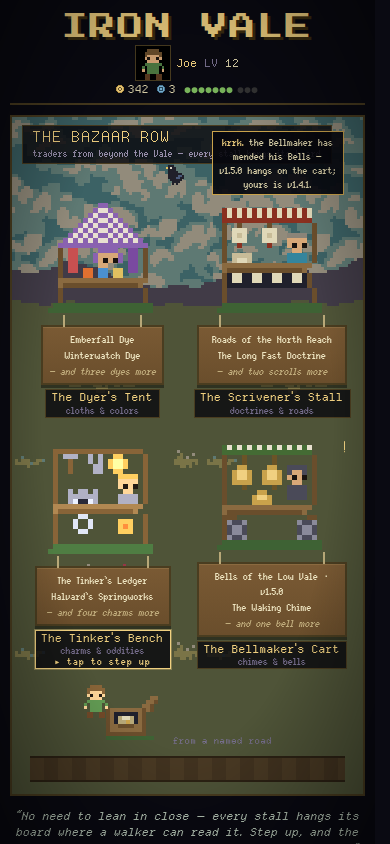
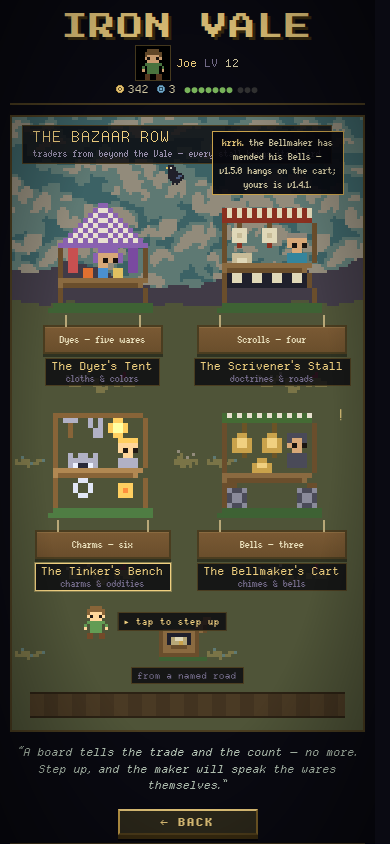
docs: hearth tree UX in plan; tidy bazaar row mockups
Claude-Session: https://claude.ai/code/session_01NKDH6uKaWuYzQcTqyKswXY

diff --git a/docs/plugin-bazaar-plan.md b/docs/plugin-bazaar-plan.md
@@ -32,16 +32,20 @@ attracts all four, and this one must not.
 
 ## 1. The vision, walked once end to end
 
-A player opens the town and finds a new corner of it: the Bazaar, a market
-screen in the same pixel register as everything else. Stalls line the square,
-one per kind of ware — the Dyer's Tent hung with cloth swatches (themes), the
-Scrivener's Stall stacked with bound doctrines (program packs), the Tinker's
-Bench of oddities (behavior plugins), the Bellmaker's Cart of chimes and bells
-(sound kits). Browsing costs nothing and executes nothing: every stall
-renders from manifest metadata alone. A ware's page shows what it is, who made it, what it
-asks of the player in plain language, and a single action. When a new version
-of an installed ware appears in the index, a raven brings word, the same way
-ravens already carry sync news.
+A player opens the town and finds a new corner of it: the Bazaar row, a
+walkable market lane in the same pixel register as everything else. Stalls
+line the row, one per kind of ware — the Dyer's Tent hung with cloth swatches
+(themes), the Scrivener's Stall stacked with bound doctrines (program packs),
+the Tinker's Bench of oddities (behavior plugins), the Bellmaker's Cart of
+chimes and bells (sound kits). Browsing costs nothing and executes nothing:
+every stall renders from manifest metadata alone, and its signboard carries no
+more than the trade and a count of wares. Step up to a stall and the merchant
+speaks — what a ware is, who made it, what it asks of the player, all in
+plain language, answered with response lines like any other conversation in
+the Vale. A ware taken home travels packed, into the ornament box in the
+player's dwelling; hung upon the hearth tree there, it wakes and works. When
+a new version of an installed ware appears in the index, a raven brings word,
+the same way ravens already carry sync news.
 
 Behind that screen there is almost nothing: a JSON index file in a public
 GitHub repository, one entry per ware pointing at an author's repo and its
@@ -179,9 +183,9 @@ never-400 rule is already doctrine). The one addition this plan makes to the
 `"network"`, `"reads:wellness"`, `"routes"` — borrowed from WebExtensions'
 install-time disclosure. The research's honest finding is that these strings
 are surfaced, not enforced, at tiers 1 and 2; they are still worth having
-because the Bazaar's ware pages render them to the player before install, and
-because a declared-but-unused permission is a review smell a human can catch
-in the index PR.
+because the stall's merchant speaks them to the player before a ware comes
+home, and because a declared-but-unused permission is a review smell a human
+can catch in the index PR.
 
 ## 5. Two tiers of ware, Factorio-shaped
 
@@ -266,8 +270,9 @@ Factorio's and Home Assistant's: a player installing code on their own
 machine, which they already do every time they pull a Docker image. All three
 of those ecosystems ship no sandbox, say so plainly, and thrive. What replaces
 the sandbox is the label (§2i's tiers, displayed wherever a ware is
-displayed), the disclosure (manifest permissions on the ware's page), the
-default (installed wares start disabled, Obsidian-style), and — the one real
+displayed), the disclosure (manifest permissions spoken by the merchant
+before a ware comes home), the default (a ware arrives in the ornament box,
+not on the tree — installed wares start inactive, Obsidian-style), and — the one real
 boundary — the restrictions a small API surface can actually enforce
 server-side once `game.grant()` exists: Factorio's "sandbox via small API
 rather than via VM," the cheapest effective trick in the whole survey.
@@ -335,7 +340,11 @@ collision-checked and refused loudly by name, on both the JS and Python sides.
 The Obsidian lesson worth copying alongside it is the auto-cleanup lifecycle:
 everything registered through the plugin handle is torn down when the ware is
 disabled, so disable-enable works without a restart and no ware needs to write
-teardown code to be a good citizen.
+teardown code to be a good citizen. The visible moment of loading gets a face
+of its own: hanging a ware upon the hearth tree (§8c) is the same beat in
+which the loader does its work, so the load mask is an animation the player
+already wanted to watch, and lifting the ornament down rewinds it while the
+auto-cleanup runs.
 
 Two operational requirements. First, from `PLUGINS.md` §3f: the loader has a
 hard off-switch (an env var the test suites set), because once wares can
@@ -380,50 +389,92 @@ the docker-compose-from-a-stranger bar §2i sets.
 
 ### 8b. The market screen
 
-Player-facing, therefore in-world, end to end. The Bazaar is a screen reached
-from the town — stalls grouped by ware type, browsable while offline from the
-cached index. Copy in the register the game already speaks:
+Player-facing, therefore in-world, end to end. The Bazaar is a walkable
+town-scene reached from the square: a row of stalls under one sky, each with
+its merchant behind the boards and its goods set out, grouped by ware type
+and browsable while offline from the cached index. On a narrow screen the row
+folds into the same two-column town grid the app already uses at phone
+widths — the stalls stack in pairs, nothing redesigned. Copy in the register
+the game already speaks:
 
-- The screen: **"The Bazaar"** — "Traders from beyond the Vale spread their
-  wares."
+- The screen: **"The Bazaar Row"** — "Traders from beyond the Vale — every
+  stall hangs its board."
 - A stall: one ware type — "The Dyer's Tent" (themes), "The Scrivener's
   Stall" (doctrines and programs), "The Tinker's Bench" (behavior wares),
-  "The Bellmaker's Cart" (sound kits).
-- A ware's page: name, author ("crafted by"), description, tier shown as
-  plain speech — tier 0: "Cloth and ink. This ware cannot act on its own.";
-  tier 1: "A charm. It will act within your hall, with your leave."; tier 2:
-  "A hired hand. It will work your ledgers and speak with the ravens. Take
-  only from traders you trust."
-- Permissions, rendered before install: "This ware asks to: read your
-  wellness ledger; send ravens beyond the Vale" — WebExtensions' honest
-  human-readable strings, in the Vale's voice.
-- Install: "Take it home." Installed-but-disabled: "Stored in your pack."
-  Enable: "Set it out." Disable: "Pack it away." Uninstall: "Return the
-  ware" — with "its ledger entries will be struck from the record" when the
-  player elects to clear the kv namespace.
+  "The Bellmaker's Cart" (sound kits). The signboard carries the trade and an
+  in-world count — "Dyes — five wares", "Scrolls — four" — and nothing more;
+  the listing lives with the merchant, not on the sign.
+- Stepping up to a stall opens the merchant's dialogue, in the same window
+  every other conversation in the Vale uses. The merchant speaks a ware's
+  disclosure as speech: name, maker ("crafted by"), what it does, and its
+  tier in plain words — tier 0: "Cloth and ink. This ware cannot act on its
+  own."; tier 1: "A charm. It will act within your hall, with your leave.";
+  tier 2: "A hired hand. It will work your ledgers and speak with the ravens.
+  Take only from traders you trust."
+- Permissions are spoken before anything comes home: "This ware asks to:
+  read your wellness ledger; send ravens beyond the Vale" — WebExtensions'
+  honest human-readable strings, in the merchant's voice.
+- The player answers with response lines, not buttons: "Take it home." (the
+  ware travels packed, straight to the ornament box — §8c), "What does 'first
+  tier of trust' mean?", "Another day, trader." Taking a ware home never
+  activates it; nothing bought at a stall acts until it hangs on the tree.
 - An incompatible or broken ware: "This ware was made for another season of
   the Vale. The trader must mend it." — the §2h break-loudly rule, worn as
   copy. Never a silent absence.
 
-Everything on this screen renders from manifests and the index — no ware code
+Everything in this scene renders from manifests and the index — no ware code
 executes at browse time, which is what makes browsing safe at every tier and
 is the direct payoff of §6's declarative contribution points.
 
-### 8c. Ravens carry word
+### 8c. The Hearth Tree
+
+The lifecycle lives at home, not at market. In the player's dwelling stands
+the hearth tree, an evergreen in a tub, and the rule it embodies fits in one
+line: what hangs upon the tree works; what sleeps in the box only sleeps. The
+stalls fill the ornament box — the tree is where a ware wakes. This replaces
+any shelf- or list-shaped lifecycle screen: enablement is not a toggle in a
+row of rows, it is an ornament hung.
+
+The screen is a split view. On the left, the tree itself, active wares hung
+as glowing ornaments, the ornament box open on the floor beside it holding
+whatever has come home unhung. On the right, a detail list of every owned
+ware with its state in Vale speech — "upon the tree", "in the box", "being
+hung…" — and choosing a ware hangs it or lifts it down. The hanging is proper
+work: a pair of pixel hands in the player's own skin tone carries the
+ornament up and sets it on a branch, and that animation is the plugin load
+mask (§7) — the loader runs behind the very beat the player is watching, so
+activation never shows a spinner. Lifting a ware down rewinds the same motion
+while the auto-cleanup lifecycle tears its registrations down. Returning a
+ware entirely — uninstall — keeps its line, "Return the ware," from the same
+list, with "its ledger entries will be struck from the record" when the
+player elects to clear the kv namespace.
+
+The tree also gives capacity a shape a shelf never had: where a shelf fills
+and ends, branches grow and the box deepens — the view scales with a
+player's collection instead of overflowing it.
+
+The look of all of this is settled in mockups rather than prose:
+`docs/mockups/bazaar-row-v2.png` (the row), `bazaar-row-mobile.png` (the same
+row at phone width), `bazaar-stall.png` (the step-up dialogue), and
+`dwelling-tree.png` (the hearth tree) are the visual reference for this
+section.
+
+### 8d. Ravens carry word
 
 Sync already speaks through ravens ("The ravens returned: N new deeds",
 `app/intervals.py:234`; failures are "the ravens were lost"). Ware updates
 join the same postal service: the background loop's index refresh compares
 release tags, and when an installed ware has a newer compatible release, the
-raven's news includes "A raven brings word of new wares at the Bazaar."
-Updating remains a deliberate act on the ware's page — no silent auto-update,
+raven's news includes "A raven brings word of new wares at the Bazaar" — and
+in the row itself, the raven perches over the stall it brings word of.
+Updating remains a deliberate act at the ware's stall — no silent auto-update,
 because tier 1 and 2 wares are trusted per version, and because a player whose
 game changed overnight without their hand on it has lost something this game
 cares about. A ware whose new release requires a newer `api_version` than the
 running game shows as "made for a coming season" rather than updating into a
 loud disable.
 
-### 8d. The ladder of deep customizability
+### 8e. The ladder of deep customizability
 
 The principle, made concrete as rungs, each zero-config to start and each a
 natural step to the next:
@@ -533,11 +584,13 @@ deeds to the ledger, its own page to settings. Excludes: minigame and
 town-slot harnesses; locale; anything requiring the voice-catalog extraction.
 
 **Phase 5 — the Bazaar.** The index repo with CI checks; the in-game client
-(index fetch, install, update, uninstall, tier and permission display); the
-market screen with its stalls; ravens carrying update word; install-from-URL.
-Player observes: the Bazaar opens in the town — browse, take a ware home, set
-it out, and later a raven brings word of new wares. Excludes: ratings,
-download counts, accounts, auto-update, any server-side anything.
+(index fetch, install, update, uninstall, tier and permission disclosure);
+the Bazaar row with its stalls and merchant dialogue; the hearth tree in the
+dwelling; ravens carrying update word; install-from-URL. Player observes: the
+Bazaar row opens in the town — read the boards, step up to a stall, take a
+ware home, hang it upon the hearth tree, and later a raven brings word of new
+wares. Excludes: ratings, download counts, accounts, auto-update, any
+server-side anything.
 
 **Phase 6 — community tooling.** The template repo, the `plugin new`
 scaffold, the ware author's smoke recipe and fixture helper, authoring docs
@@ -582,11 +635,12 @@ an `extras` JSON column — blocks the provider and chart harnesses and is
 easiest to settle before phase 4 starts. `PLUGINS.md` recommends the superset;
 this plan has no reason to disagree, but it is not settled until you settle it.
 
-**When does the Bazaar screen open?** A market with one stall and three wares
-— all authored by you — is either charming (a quiet market that fills as the
-Vale grows) or embarrassing (an empty mall). Ship the screen in phase 5
-regardless, or hold it until some threshold of wares exists and let
-install-from-URL carry early adopters?
+**When does the Bazaar row open?** A row with one stall and three wares — all
+authored by you — is either charming (a quiet market that fills as the Vale
+grows) or embarrassing (an empty mall). Ship the row in phase 5 regardless,
+or hold it until some threshold of wares exists and let install-from-URL
+carry early adopters? The hearth tree does not wait on this answer either
+way — wares that arrive by hand-copied folder or by URL still need hanging.
 
 **The Undercroft as the proof.** `PLUGINS.md` §5 argues core should ship at
 least one whole subsystem through a harness, because a seam only stays real if
